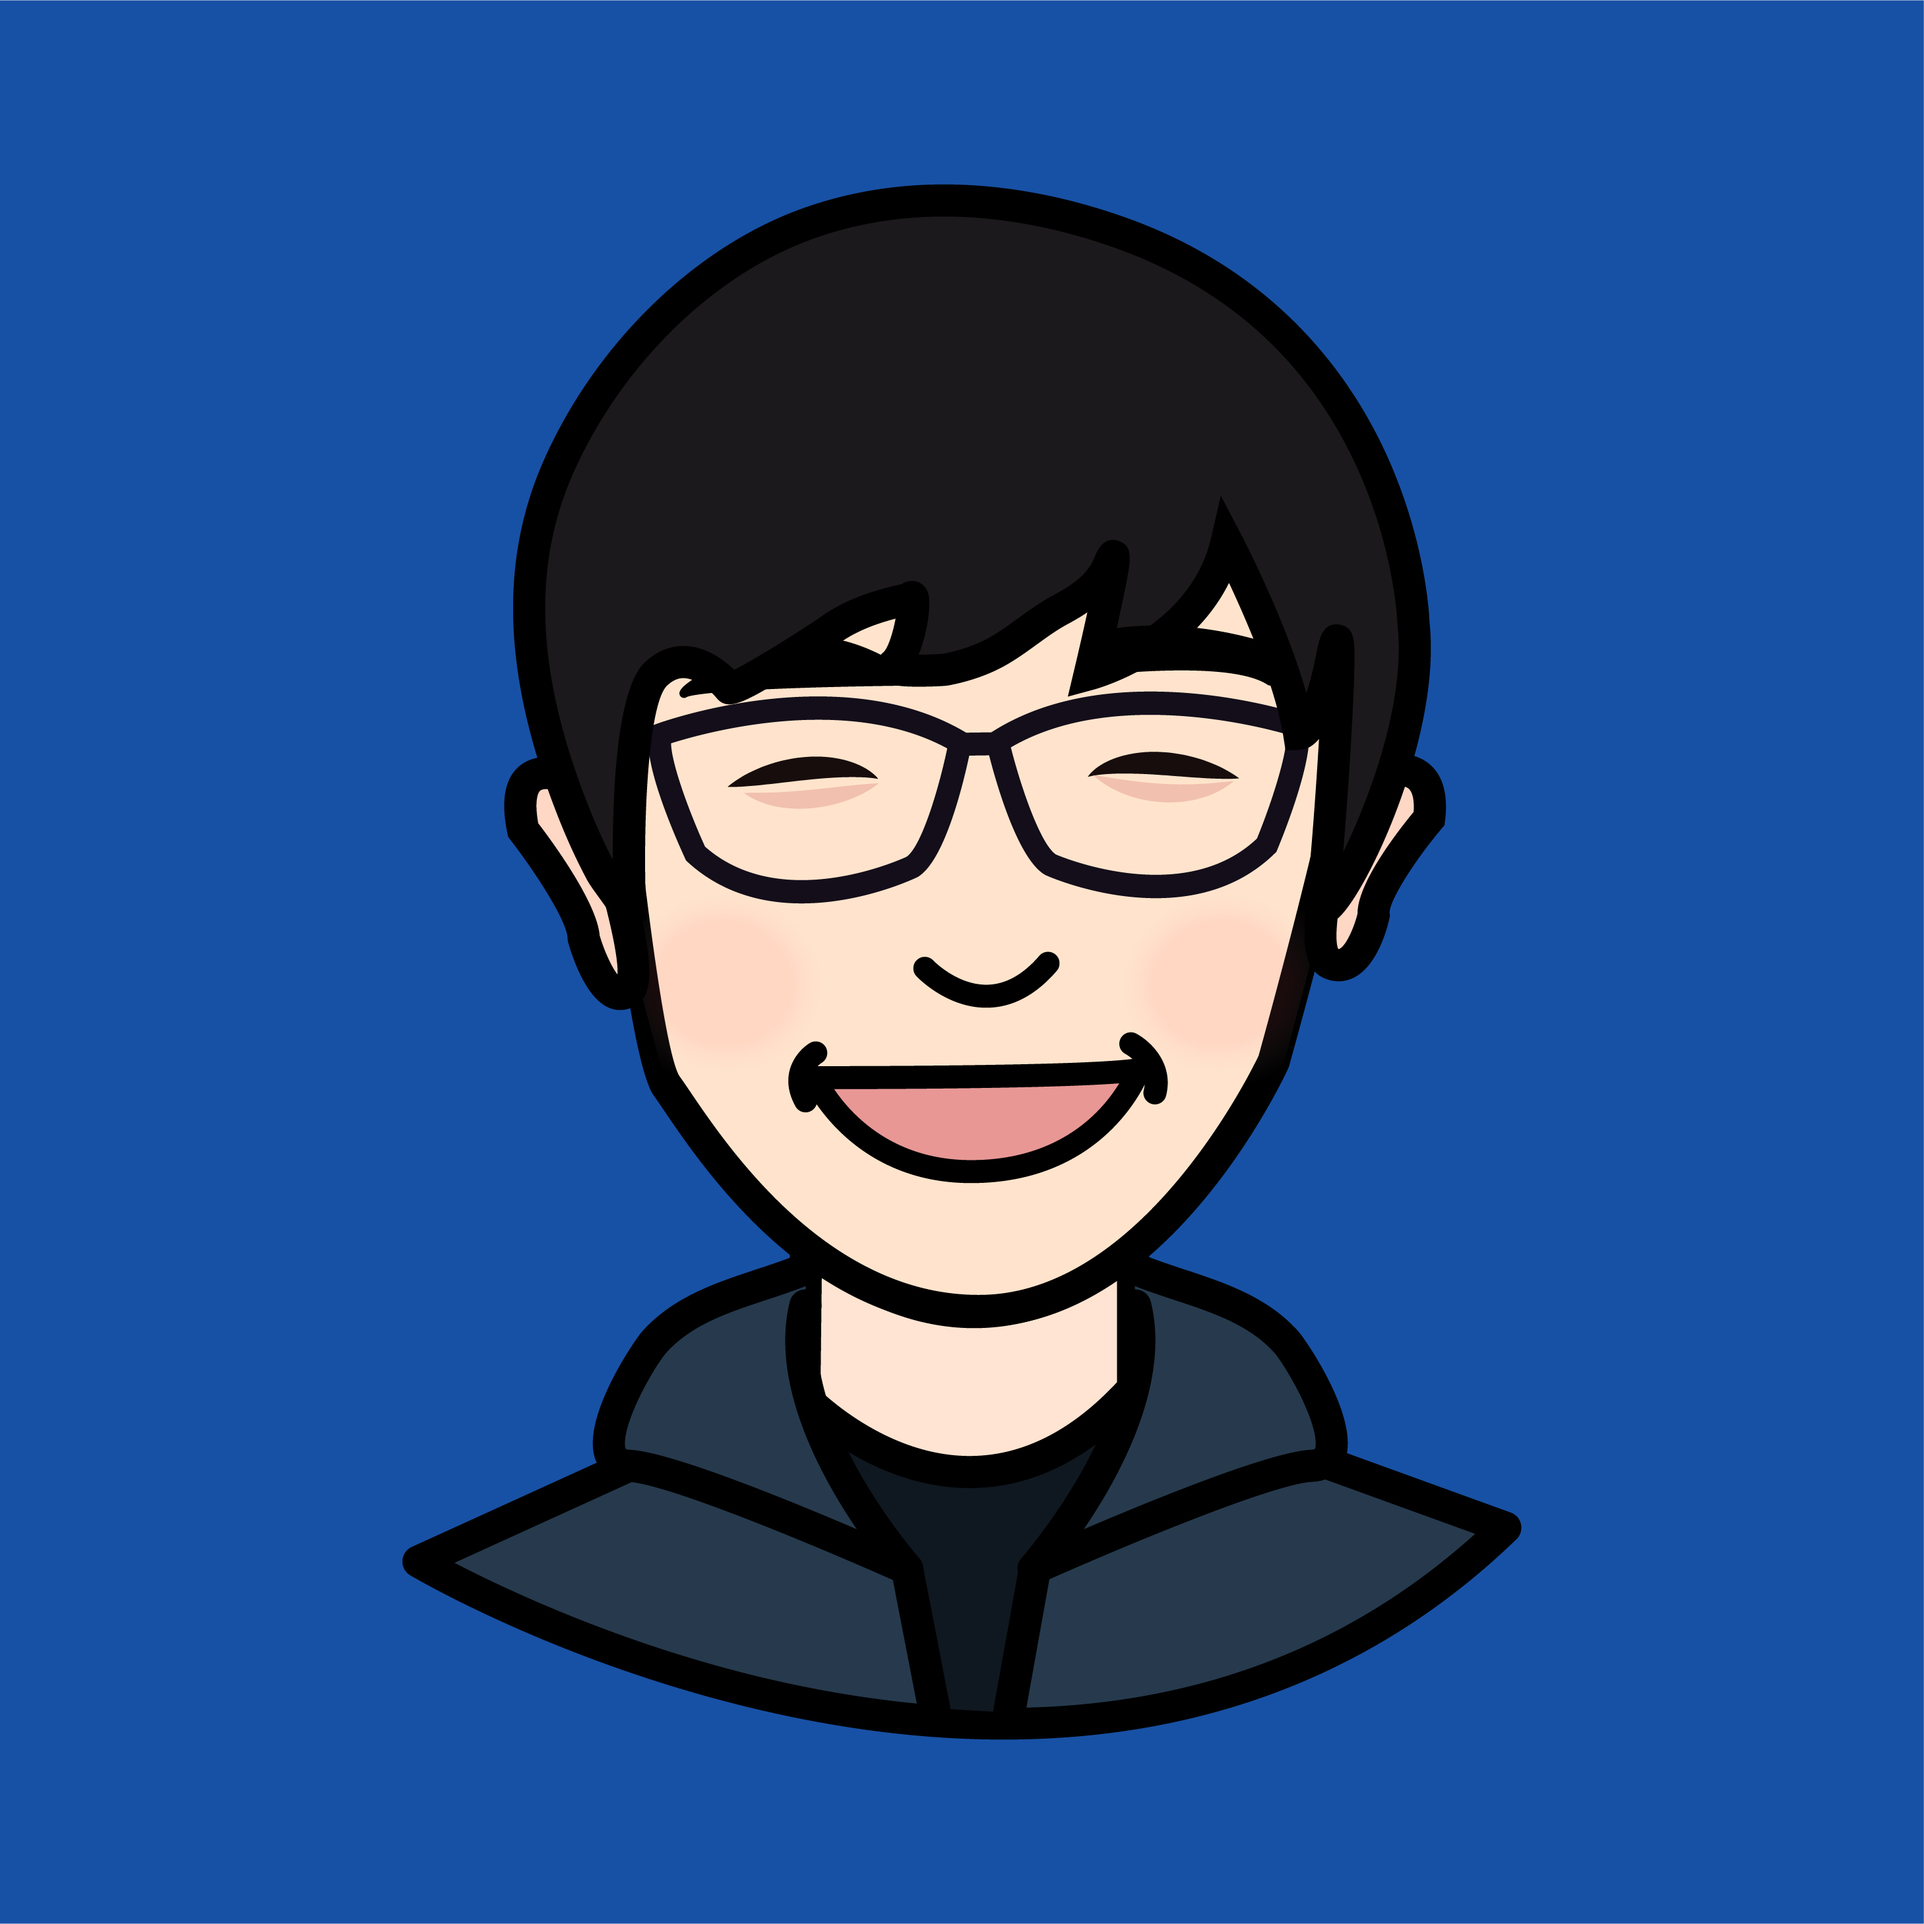
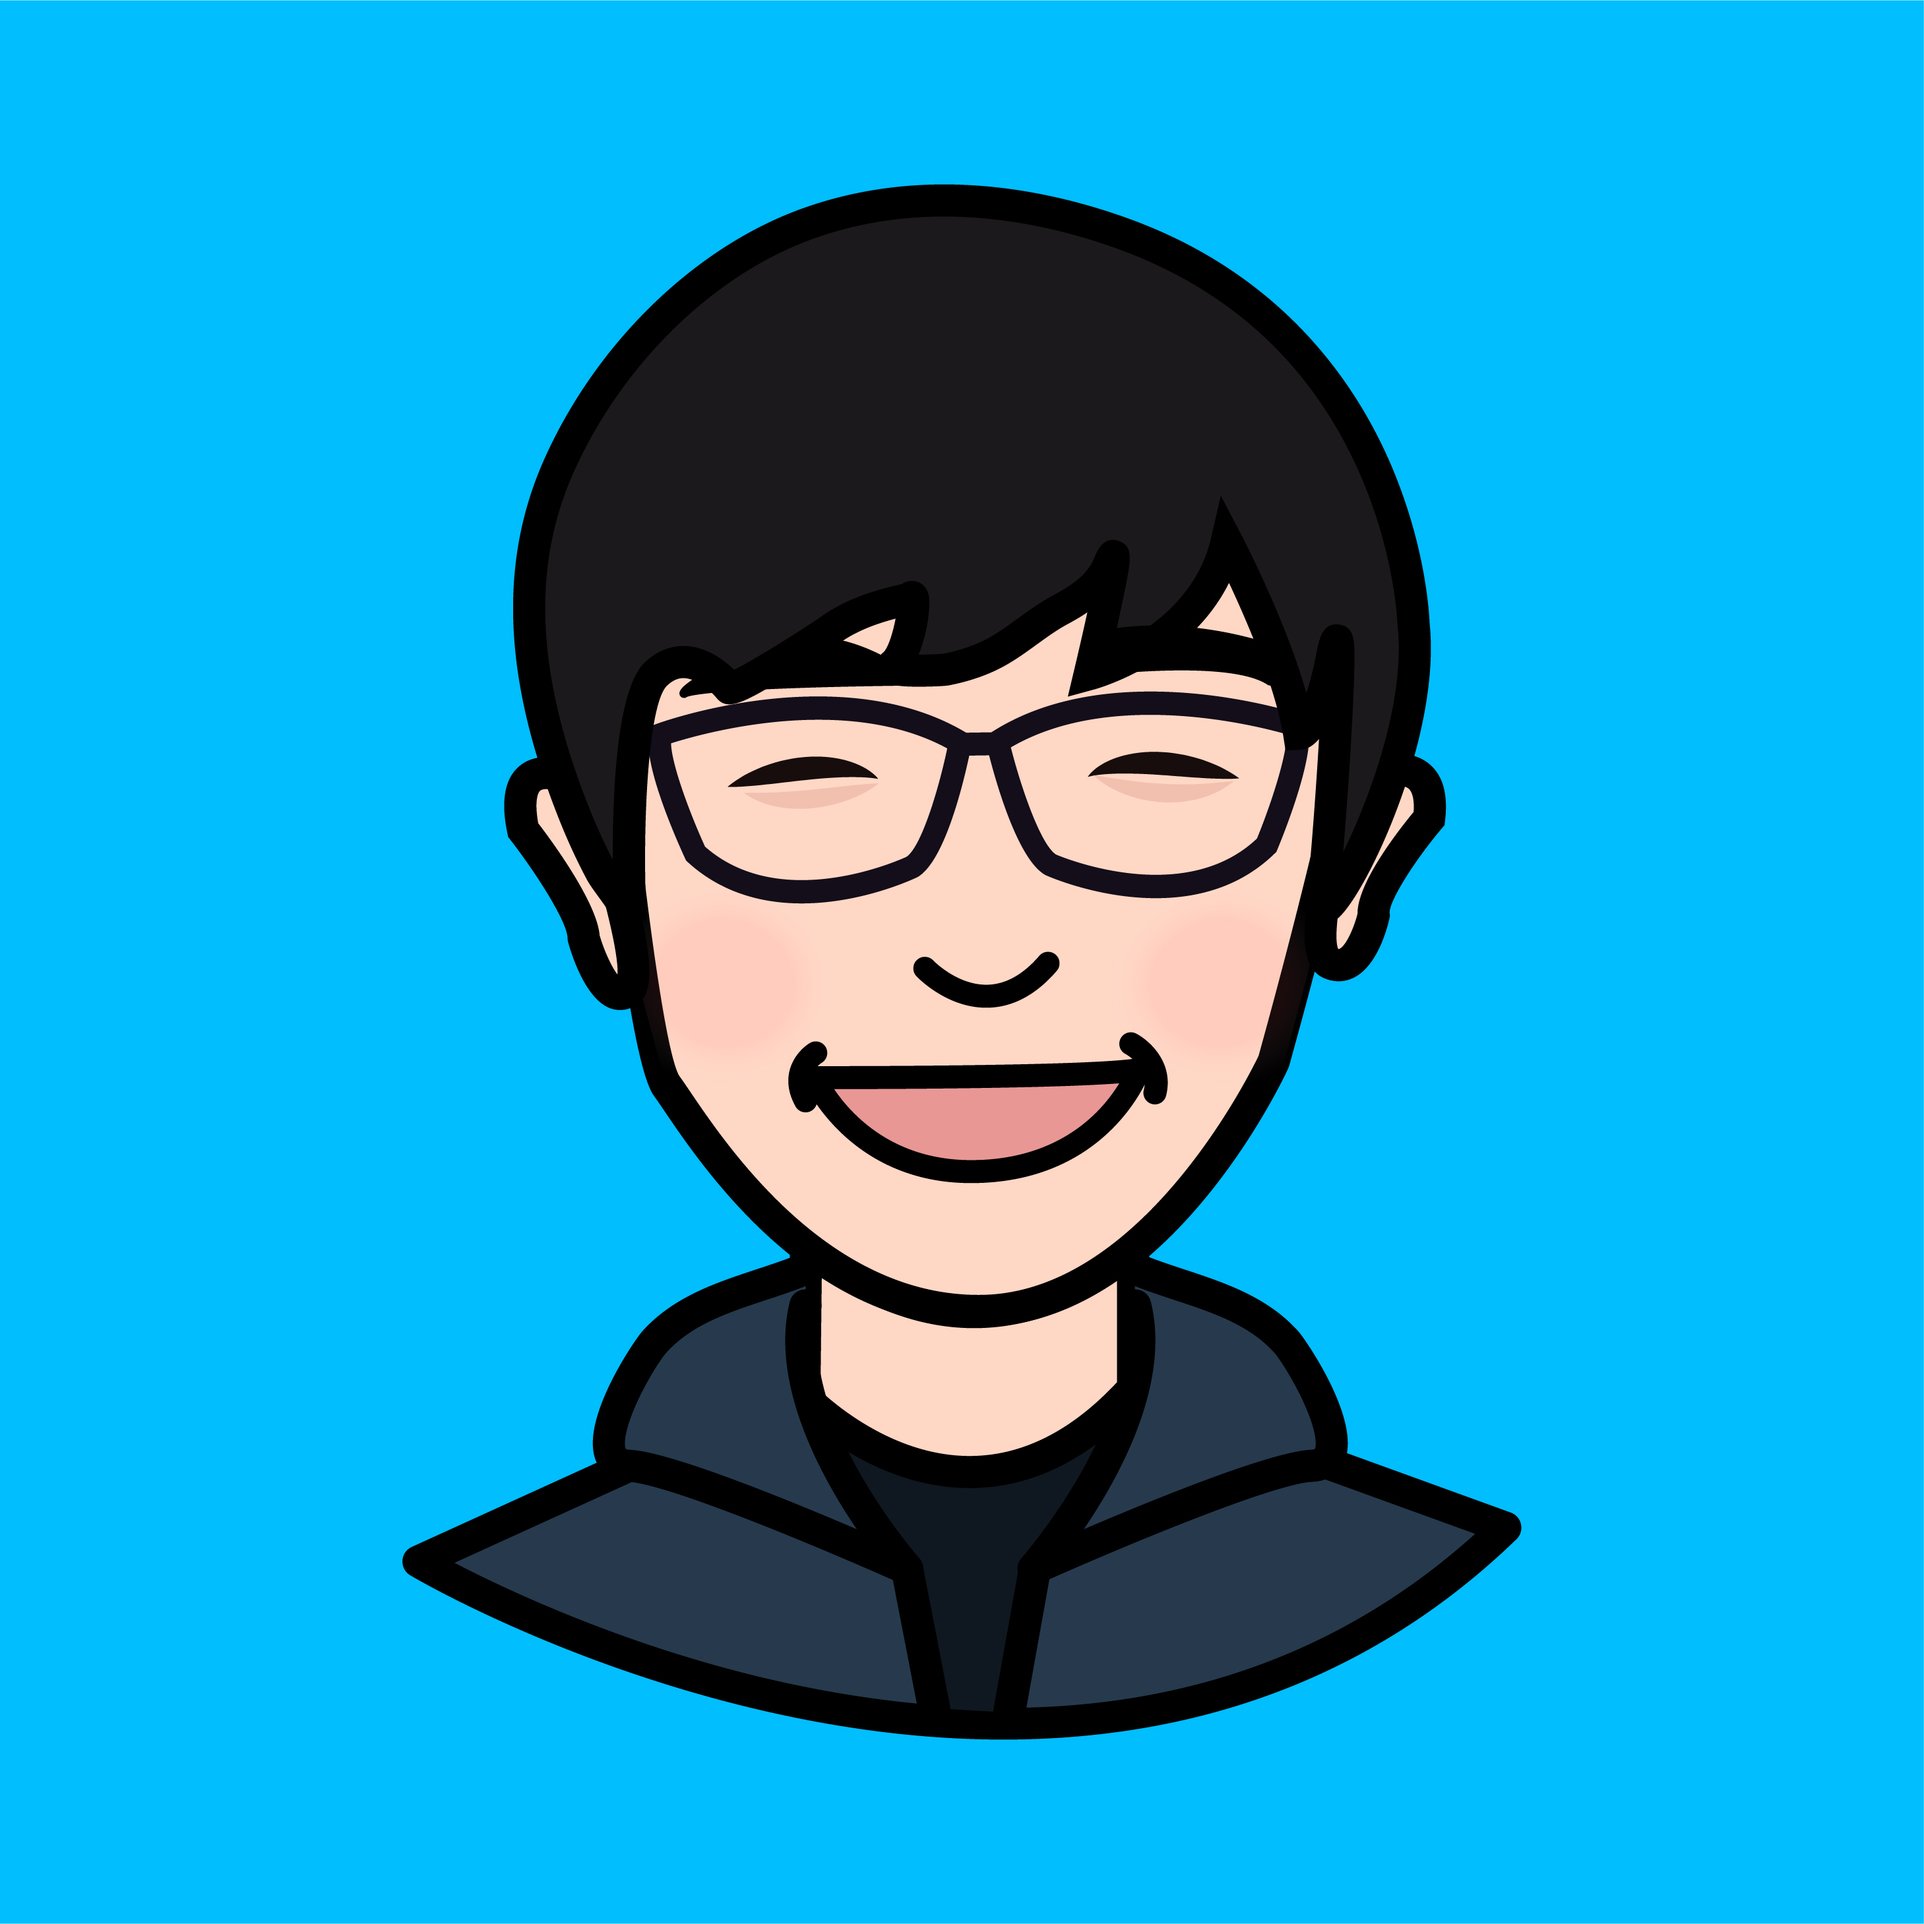
색상코드 변경

diff --git a/index.html b/index.html
@@ -19,6 +19,7 @@
 		<meta name="msapplication-TileColor" content="#da532c">
 		<meta name="theme-color" content="#ffffff">
 
+		<link rel="stylesheet" href="./css/style.css">
 
     <title>포러리는 어디에?</title>
   </head>
@@ -67,7 +68,7 @@
 						<option>도서관</option>
 			    </select>
 			  </div>
-			  <button type="submit" class="btn btn-primary mb-2">포러리는 여기에!</button>
+			  <button type="submit" class="porerri-btn btn btn-primary mb-2">포러리는 여기에!</button>
 			</form>
 			<hr>
 			<h3>ABOUT</h3>

diff --git a/css/style.css b/css/style.css
@@ -1,0 +1,4 @@
+.porerri-btn {
+  background-color: #00BEFF;
+  border-color: #00BEFF;
+}
